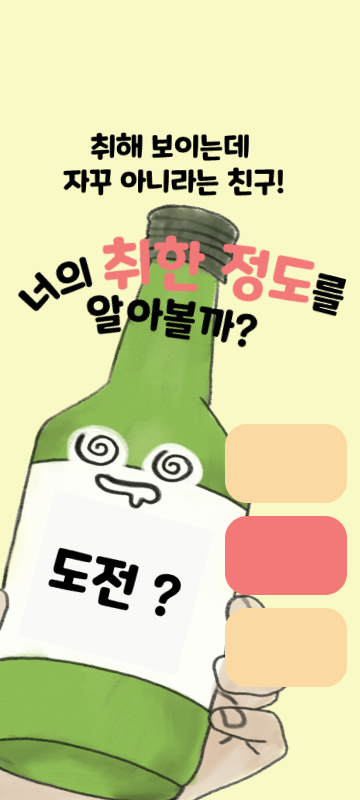
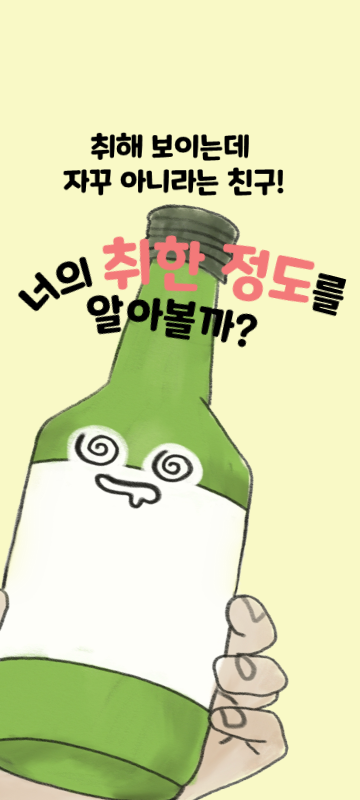
버튼수정

Changed region(s): [[0.6111, 0.5312, 0.9778, 0.875], [0.1222, 0.6875, 0.3972, 0.7812], [0.4278, 0.7188, 0.5194, 0.7812]]

diff --git a/App.js b/App.js
@@ -16,6 +16,8 @@ import { createStackNavigator } from '@react-navigation/stack';
 const Stack = createStackNavigator();
 
 import BackgroundImage from './assets/main_screen.png'; // 배경 이미지 파일 경로에 맞게 수정해주세요
+// import IntroPage from
+// inport RecodePage from
 
 function Home({ navigation }) {
   return (
@@ -25,9 +27,28 @@ function Home({ navigation }) {
 
         <TouchableOpacity
           style={styles.button}
-          onPress={() => navigation.navigate('introPage')}
+          onPress={() => navigation.navigate('IntroPage')}
         >
           <Text style={styles.buttonText}>게임 설명</Text>
+        </TouchableOpacity>
+
+        <TouchableOpacity
+          style={styles.button2}
+          onPress={() => navigation.navigate('RecodePage')}
+        >
+          <Text style={styles.buttonText}>전적보기</Text>
+        </TouchableOpacity>
+
+        <TouchableOpacity
+          style={styles.button3}
+          onPress={() => navigation.navigate('GameStart')}
+        ></TouchableOpacity>
+
+        <TouchableOpacity
+          style={styles.button4}
+          onPress={() => navigation.navigate('Makedrink')}
+        >
+          <Text style={styles.buttonText}>폭탄주 제조</Text>
         </TouchableOpacity>
       </ImageBackground>
     </View>
@@ -57,6 +78,40 @@ const styles = StyleSheet.create({
     justifyContent: 'center',
     borderRadius: 5,
   },
+  
+  button2: {
+    position: 'absolute',
+    top: 470,
+    right: -8,
+    width: 180,
+    height: 50,
+    alignItems: 'center',
+    justifyContent: 'center',
+    borderRadius: 5,
+  },
+
+  button3: {
+    position: 'absolute',
+    top: 450,
+    left: 50,
+    width: 150,
+    height: 150,
+    alignItems: 'center',
+    justifyContent: 'center',
+    borderRadius: 5,
+  },
+
+  button4: {
+    position: 'absolute',
+    top: 570,
+    right: -8,
+    width: 180,
+    height: 50,
+    alignItems: 'center',
+    justifyContent: 'center',
+    borderRadius: 5,
+  },
+
   buttonText: {
     color: 'black',
     fontWeight: 'bold',
@@ -72,6 +127,30 @@ function IntroPage() {
   );
 }
 
+function RecodePage() {
+  return (
+    <View style={{ flex: 1, alignItems: 'center', justifyContent: 'center' }}>
+      <Text> 전적 보기 </Text>
+    </View>
+  );
+}
+
+function GameStart() {
+  return (
+    <View style={{ flex: 1, alignItems: 'center', justifyContent: 'center' }}>
+      <Text> game start </Text>
+    </View>
+  );
+}
+
+function Makedrink() {
+  return (
+    <View style={{ flex: 1, alignItems: 'center', justifyContent: 'center' }}>
+      <Text> make drink </Text>
+    </View>
+  );
+}
+
 function App() {
   return (
     <NavigationContainer>
@@ -81,7 +160,10 @@ function App() {
           component={Home}
           options={{ headerShown: false }}
         />
-        <Stack.Screen name="introPage" component={IntroPage} />
+        <Stack.Screen name="IntroPage" component={IntroPage} />
+        <Stack.Screen name="RecodePage" component={RecodePage} />
+        <Stack.Screen name="GameStart" component={GameStart} />
+        <Stack.Screen name="Makedrink" component={Makedrink} />
       </Stack.Navigator>
     </NavigationContainer>
   );
